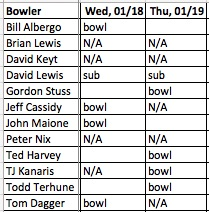
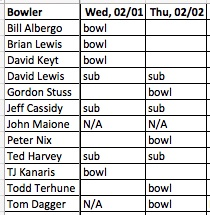
latest version with working APIs and hardcoded front end

diff --git a/this_weeks_schedule_v2.html b/this_weeks_schedule_v2.html
@@ -1,16 +1,75 @@
 <!DOCTYPE html>
 <head>
-<title>MLB</title>
-<meta name="viewport" content="width=device-width">
-<meta name="mobile-web-app-capable" content="yes">
-<meta name="apple-mobile-web-app-capable" content="yes">
-<link rel="apple-touch-icon" sizes="180x180" href="/apple-touch-icon.png?ver1.2">
-<link rel="icon" type="image/png" href="/favicon-32x32.png?ver1.2" sizes="32x32">
-<link rel="icon" type="image/png" href="/favicon-16x16.png?ver1.2" sizes="16x16">
-<link rel="manifest" href="/manifest.json">
-<link rel="mask-icon" href="/safari-pinned-tab.svg" color="#000000">
-<meta name="theme-color" content="#ffffff">
+    <link href="style.css" type="text/css" rel="stylesheet">
 </head>
 <body>
-<img src="./this_week_v2.jpg" alt="This Week's Schedule" width = "100%">
+    <table>
+        <thead>
+            <tr><th colspan=3 class="tablemain"> Week 14 - W/O January 22 </th></tr>
+            <tr>
+            <th>Bowler</th>
+            <th>Wed</th>
+            <th>Thu</th>
+            </tr>
+        </thead>
+        <tbody>
+            <tr>
+                <td class="piccell">Bill Albergo</td>
+                <td class="bowlcell"><img src="apple-touch-icon.png" class="bowlerpic"></td>
+                <td class="bowlcell"></td>
+            </tr>
+            <tr>
+                <td class="piccell">Brian Lewis</td>
+                <td class="bowlcell"></td>
+                <td class="bowlcell"><img src="apple-touch-icon.png" class="bowlerpic"></td>
+            </tr>
+            <tr>
+                <td class="piccell">David Keyt</td>
+                <td class="bowlcell"><img src="apple-touch-icon.png" class="bowlerpic"></td>
+                <td class="bowlcell"></td>
+            </tr>
+            <tr>
+                <td class="piccell">David Lewis</td>
+                <td colspan=2 class="bowlcell">sub</td>
+            </tr>
+            <tr>
+                <td class="piccell">Gordon Stuss</td>
+                <td class="bowlcell"></td>
+                <td class="bowlcell"><img src="apple-touch-icon.png" class="bowlerpic"></td>
+            </tr>
+            <tr>
+                <td class="piccell">Jeff Cassidy</td>
+                <td colspan=2 class="bowlcell">sub</td>
+            </tr>
+            <tr>
+                <td class="piccell">John Maione</td>
+                <td class="bowlcell">N/A</td>
+                <td class="bowlcell">N/A</td>
+             </tr>
+            <tr>
+                <td class="piccell">Peter Nix</td>
+                <td class="bowlcell"></td>
+                <td class="bowlcell"><img src="apple-touch-icon.png" class="bowlerpic"></td>
+            </tr>
+            <tr>
+                <td class="piccell">Ted Harvey</td>
+                <td colspan=2 class="bowlcell">sub</td>
+            </tr>
+            <tr>
+                <td class="piccell">TJ Kanaris</td>
+                <td class="bowlcell"><img src="apple-touch-icon.png" class="bowlerpic"></td>
+                <td class="bowlcell"></td>
+            </tr>
+            <tr>
+                <td class="piccell">Todd Terhune</td>
+                <td class="bowlcell"><img src="apple-touch-icon.png" class="bowlerpic"></td>
+                <td class="bowlcell"></td>
+            </tr>
+            <tr>
+                <td class="piccell">Tom Dagger</td>
+                <td class="bowlcell">N/A</td>
+                <td class="bowlcell"><img src="apple-touch-icon.png" class="bowlerpic"></td>
+            </tr>
+        </tbody>
+    </table>
 </body>
